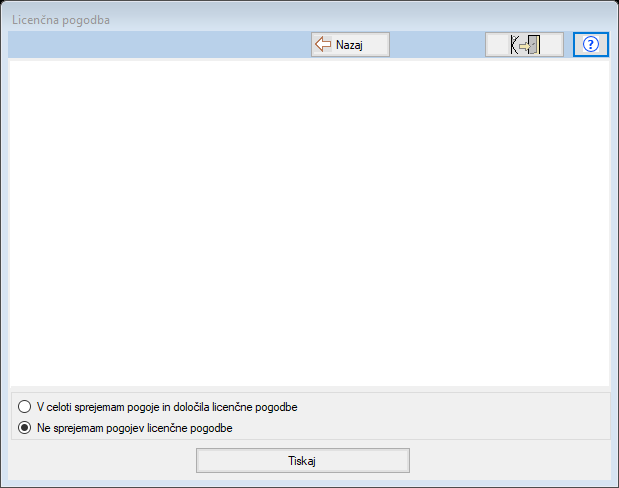
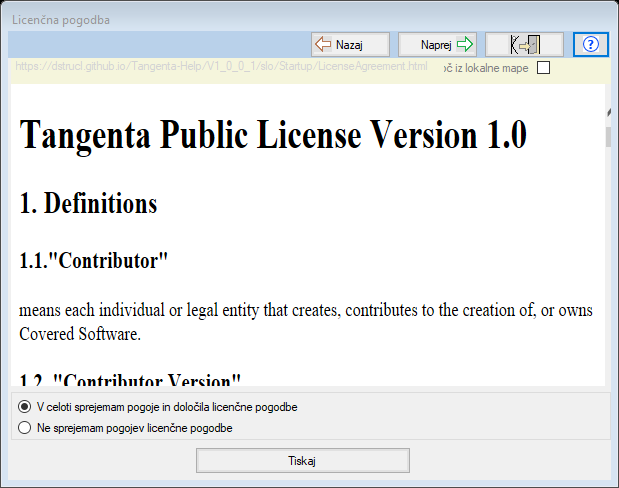
Add SQLiteConnectionDialog help

diff --git a/V1_0_0_1/slo/DBConnectionControl40/st_SQLiteConnectionDialog.html b/V1_0_0_1/slo/DBConnectionControl40/st_SQLiteConnectionDialog.html
@@ -1,0 +1,105 @@
+<?xml version="1.0" encoding="utf-8"?>
+<html>
+  <head>
+    <link rel="stylesheet" type="text/css" href="../style.css" />
+    <title>Izberite datoteko podatkovne baze</title>
+  </head>
+  <body>
+    <THeader>
+      <div class="header">
+        <canvas id="TangentaLogo" width="60" height="50"></canvas>
+        <script type="text/javascript">
+        var canvas, context, canvaso, contexto;
+        canvaso = document.getElementById('TangentaLogo');
+        context = canvaso.getContext('2d');
+        context.lineWidth = 1;
+
+        // Draw vertical line
+        context.strokeStyle ='#936b20';
+        context.beginPath();
+        context.moveTo(30, 0);
+        context.lineTo(30, 50);
+        context.stroke();
+
+        // Draw large arc
+        context.beginPath();
+        context.arc(54, 26, 24,0.6*Math.PI,1.5*Math.PI, false);
+        context.stroke();
+
+        // Draw head circle
+        context.beginPath();
+        context.fillStyle = "#E2FFB0"/*"#CEF988";*/
+        context.arc(34, 6, 4,0,2*Math.PI, false);
+        context.fill();
+        context.stroke();
+
+        context.closePath();
+        context.restore();
+
+        </script>
+        <div class="header_border_with_radius">
+          <div class="header_menu">
+            <span>
+              <a href="../Tangenta.html">TANGENTA</a>
+            </span>,
+             <span><a href="../Invoice.html">RAČUNI</a></span>,
+             <span><a href="../ProformaInvoice.html">PREDRAČUNI</a></span>,
+             <span><a href="../Stock.html">ZALOGE</a></span>,
+             <span><a href="../PriceList.html">CENIKI</a></span>,
+             <span><a href="../Printing.html">TISKANJE RAČUNOV</a></span>,
+             <span><a href="../InvoicingOverview.html">PREGLED FAKTUR</a></span>,
+             <span><a href="../Support.html">PODPORA</a></span></div>
+        </div>
+      </div>
+    </THeader>
+    <TControl name="st_SQLiteConnectionDialog" imageincluded="1" link="" margin="4" heading="h1">
+      <div class="Title">
+        <h1 class="Title" id="5eb810a8-af0d-46b7-94a6-a4b3444ca695">Izbira ali namestitev podatkovne baze tipa SQLite</h1>
+        <div class="About">Podatkovna baza tipa SQLite je samostajna datoteka.
+V kolikor v ne dodajate velikih slik bo ta datoteka zelo majhna
+Podatkovna baza podjetja Studio Marjetka d.o.o. ima preko 3000 izdanih faktur
+v obdobju treh let, njena velikost na disku pa je še vedno manjša od 3.5MB,
+kar je običajno manj kot je velikost ene same fotografije ki jo naredite z mobilnim telefonom.</div>
+        <img src="st_SQLiteConnectionDialog.png" width="590" height="230" />
+        <div class="Description">Prikazani dialog ima dva polja, ki sta razložena v nadaljevanju.</div>
+      </div>
+      <TControl name="st_SQLiteConnectionDialog.usrc_NavigationButtons1" imageincluded="1" link="" margin="4" heading="h2">
+        <TControl name="st_SQLiteConnectionDialog.usrc_NavigationButtons1.btn1" imageincluded="1" link="" margin="4" heading="h2" />
+        <TControl name="st_SQLiteConnectionDialog.usrc_NavigationButtons1.btn2" imageincluded="1" link="" margin="4" heading="h2" />
+        <TControl name="st_SQLiteConnectionDialog.usrc_NavigationButtons1.btn3" imageincluded="1" link="" margin="4" heading="h2" />
+        <TControl name="st_SQLiteConnectionDialog.usrc_NavigationButtons1.usrc_Help1" imageincluded="1" link="" margin="4" heading="h2">
+          <TControl name="st_SQLiteConnectionDialog.usrc_NavigationButtons1.usrc_Help1.btn_Help" imageincluded="1" link="" margin="4" heading="h2" />
+        </TControl>
+      </TControl>
+      <TControl name="st_SQLiteConnectionDialog.lbl_Folder" imageincluded="1" link="st_SQLiteConnectionDialog.btn_SelectFolder" margin="4" heading="h2">
+        <div class="Title">
+          <h2 class="Title" id="07671487-235d-4679-948a-9b58b2d6e922">Mapa kjer se nahaja podatkovna baza SQLite</h2>
+          <img src="st_SQLiteConnectionDialog_lbl_Folder.png" width="563" height="54" />
+          <div class="Description">S pritiskom na gumb ("Mapa (pot do datoteke) se bo prikazal standardni dialog operacisjkega sistema Windows za izbiro mape.
+Izbrana mapa se bo vpisala v tekstovno polje. Program na začetku privzeto nastavi mapo C:\TangentaDB\, kar seveda lahko spremenite.
+
+</div>
+        </div>
+      </TControl>
+      <TControl name="st_SQLiteConnectionDialog.cmbR_FilePath" imageincluded="1" link="" margin="4" heading="h2" />
+      <TControl name="st_SQLiteConnectionDialog.btn_SelectFolder" imageincluded="1" link="" margin="4" heading="h2" />
+      <TControl name="st_SQLiteConnectionDialog.lbl_FileName" imageincluded="1" link="st_SQLiteConnectionDialog.btn_SelectFile,st_SQLiteConnectionDialog.cmbR_FileName" margin="4" heading="h2">
+        <div class="Title">
+          <h2 class="Title" id="e5bcd4ae-b3cf-458a-9fea-f69e1ce21a2c">Ime datoteke</h2>
+          <img src="st_SQLiteConnectionDialog_lbl_FileName.png" width="560" height="53" />
+          <div class="Description">S pritiskom na gumb "Ime Datoteke" lahko izberemo neko že obstoječo podatkovno bazo tipa SQLite.
+Lahko pa tudi napišemo novo ime, program Tangenta, pa bo v nadaljevanju sutvaril novo prazno podatkovno bazo z novim imenom.</div>
+        </div>
+      </TControl>
+      <TControl name="st_SQLiteConnectionDialog.cmbR_FileName" imageincluded="1" link="" margin="4" heading="h2" />
+      <TControl name="st_SQLiteConnectionDialog.btn_SelectFile" imageincluded="1" link="" margin="4" heading="h2" />
+      <TControl name="st_SQLiteConnectionDialog.btn_SQLiteInfo" imageincluded="1" link="" margin="4" heading="h2">
+        <div class="Title">
+          <h2 class="Title" id="aae70c30-39b0-4c2d-a398-edd1fc19c8fe">Informacija o SQLite podatkovni bazi</h2>
+          <div class="About">S pritiskom na gum "SQLite Info" se prikaže dialog s potrebnimi informacijami verzije knjižnic in gonilnikov za SQLite</div>
+          <img src="st_SQLiteConnectionDialog_btn_SQLiteInfo.png" width="86" height="29" />
+        </div>
+      </TControl>
+    </TControl>
+  </body>
+</html>

diff --git a/V1_0_0_1/slo/DBSync/nav_Form_GetDBType.html b/V1_0_0_1/slo/DBSync/nav_Form_GetDBType.html
@@ -1,0 +1,88 @@
+<?xml version="1.0" encoding="utf-8"?>
+<html>
+  <head>
+    <link rel="stylesheet" type="text/css" href="../style.css" />
+    <title>DBSync.Form_GetDBType</title>
+  </head>
+  <body>
+    <THeader>
+      <div class="header">
+        <canvas id="TangentaLogo" width="60" height="50"></canvas>
+        <script type="text/javascript">
+        var canvas, context, canvaso, contexto;
+        canvaso = document.getElementById('TangentaLogo');
+        context = canvaso.getContext('2d');
+        context.lineWidth = 1;
+
+        // Draw vertical line
+        context.strokeStyle ='#936b20';
+        context.beginPath();
+        context.moveTo(30, 0);
+        context.lineTo(30, 50);
+        context.stroke();
+
+        // Draw large arc
+        context.beginPath();
+        context.arc(54, 26, 24,0.6*Math.PI,1.5*Math.PI, false);
+        context.stroke();
+
+        // Draw head circle
+        context.beginPath();
+        context.fillStyle = "#E2FFB0"/*"#CEF988";*/
+        context.arc(34, 6, 4,0,2*Math.PI, false);
+        context.fill();
+        context.stroke();
+
+        context.closePath();
+        context.restore();
+
+        </script>
+        <div class="header_border_with_radius">
+          <div class="header_menu">
+            <span>
+              <a href="../Tangenta.html">TANGENTA</a>
+            </span>,
+             <span><a href="../Invoice.html">RAČUNI</a></span>,
+             <span><a href="../ProformaInvoice.html">PREDRAČUNI</a></span>,
+             <span><a href="../Stock.html">ZALOGE</a></span>,
+             <span><a href="../PriceList.html">CENIKI</a></span>,
+             <span><a href="../Printing.html">TISKANJE RAČUNOV</a></span>,
+             <span><a href="../InvoicingOverview.html">PREGLED FAKTUR</a></span>,
+             <span><a href="../Support.html">PODPORA</a></span></div>
+        </div>
+      </div>
+    </THeader>
+    <TControl name="nav_Form_GetDBType" imageincluded="1" link="" margin="4" heading="h1">
+      <div class="Title">
+        <h1 class="Title" id="03989c5e-8bd3-4dc6-8c6c-cf433d663e38">Izbira strežnika in podatkovne baze</h1>
+        <div class="About">Na voljo sta dva tipa strežnikov: SQLite in MSSQL.
+SQLite je strežnik, ki je integriran v program Tangenta.
+
+MSSQL strežnik, je samostojen strežnik, ki ga namestite posebej.
+Namestitev MSSQL strežnika je zahteven process, ki ga lahko uspešno opravi samo
+dober sistemski administrator ali poznavalec
+
+
+
+</div>
+        <img src="nav_Form_GetDBType.png" width="342" height="139" />
+        <div class="Description">V kolikor bo program Tangenta tekel v enouporabniškem načinu samo na enem računalniku potem
+je smiselno izbrati SQLite.
+Za večuporabniško delovanje, je smiselna povezava na MSSQL strežnik.
+
+</div>
+      </div>
+      <TControl name="nav_Form_GetDBType.usrc_NavigationButtons1" imageincluded="1" link="" margin="4" heading="h2">
+        <TControl name="nav_Form_GetDBType.usrc_NavigationButtons1.btn1" imageincluded="1" link="" margin="4" heading="h2" />
+        <TControl name="nav_Form_GetDBType.usrc_NavigationButtons1.btn2" imageincluded="1" link="" margin="4" heading="h2" />
+        <TControl name="nav_Form_GetDBType.usrc_NavigationButtons1.btn3" imageincluded="1" link="" margin="4" heading="h2" />
+        <TControl name="nav_Form_GetDBType.usrc_NavigationButtons1.usrc_Help1" imageincluded="1" link="" margin="4" heading="h2">
+          <TControl name="nav_Form_GetDBType.usrc_NavigationButtons1.usrc_Help1.btn_Help" imageincluded="1" link="" margin="4" heading="h2" />
+        </TControl>
+      </TControl>
+      <TControl name="nav_Form_GetDBType.lbl_SelectDataBase" imageincluded="1" link="" margin="4" heading="h2" />
+      <TControl name="nav_Form_GetDBType.rdb_SQLite" imageincluded="1" link="" margin="4" heading="h2" />
+      <TControl name="nav_Form_GetDBType.rdb_MSSQL" imageincluded="1" link="" margin="4" heading="h2" />
+    </TControl>
+  </body>
+</html>

diff --git a/V1_0_0_1/slo/Startup/nav_Form_LicenseAgreement.html b/V1_0_0_1/slo/Startup/nav_Form_LicenseAgreement.html
@@ -55,18 +55,39 @@
     <TControl name="nav_Form_LicenseAgreement" imageincluded="1" link="" margin="4" heading="h1">
       <div class="Title">
         <h1 class="Title" id="c962a320-5b4f-4266-8917-2815e8d1040d">Licenčna pogodba</h1>
-        <div class="About">Napiši licenčno pogodbo</div>
+        <div class="About">Licenčna pogodba določa pogoje in pravice uporabe programa Tangenta.exe.</div>
         <img src="nav_Form_LicenseAgreement.png" width="619" height="488" />
+        <div class="Description">Kljub temu da je program odprtokoden in in samo po sebi brezplačen za uporabo, Licenčno pogodbo podrobno preberite, saj vas lahko kršitev licenčnih pogojev zelo drago stane v primeru
+tožbe avtorja.</div>
       </div>
       <TControl name="nav_Form_LicenseAgreement.usrc_NavigationButtons1" imageincluded="1" link="" margin="4" heading="h2">
         <TControl name="nav_Form_LicenseAgreement.usrc_NavigationButtons1.btn1" imageincluded="1" link="" margin="4" heading="h2" />
+        <TControl name="nav_Form_LicenseAgreement.usrc_NavigationButtons1.btn2" imageincluded="1" link="" margin="4" heading="h1">
+          <div class="Title">
+            <h1 class="Title" id="3f8f2841-d533-4ec9-8a0a-c30a0d0f9bbc">Gumb za "Naprej"</h1>
+            <img src="nav_Form_LicenseAgreement_usrc_NavigationButtons1_btn2.png" width="81" height="27" />
+          </div>
+        </TControl>
         <TControl name="nav_Form_LicenseAgreement.usrc_NavigationButtons1.btn3" imageincluded="1" link="" margin="4" heading="h2" />
         <TControl name="nav_Form_LicenseAgreement.usrc_NavigationButtons1.usrc_Help1" imageincluded="1" link="" margin="4" heading="h2">
           <TControl name="nav_Form_LicenseAgreement.usrc_NavigationButtons1.usrc_Help1.btn_Help" imageincluded="1" link="" margin="4" heading="h2" />
         </TControl>
       </TControl>
+      <TControl name="nav_Form_LicenseAgreement.usrc_web_Help1" imageincluded="1" link="" margin="4" heading="h1">
+        <TControl name="nav_Form_LicenseAgreement.usrc_web_Help1.txt_URL" imageincluded="1" link="" margin="4" heading="h1" />
+        <TControl name="nav_Form_LicenseAgreement.usrc_web_Help1.chk_local" imageincluded="1" link="" margin="4" heading="h1" />
+      </TControl>
       <TControl name="nav_Form_LicenseAgreement.groupBox1" imageincluded="1" link="" margin="4" heading="h2">
-        <TControl name="nav_Form_LicenseAgreement.groupBox1.rdb_AcceptLicenseAgreement" imageincluded="1" link="" margin="4" heading="h2" />
+        <TControl name="nav_Form_LicenseAgreement.groupBox1.rdb_AcceptLicenseAgreement" imageincluded="1" link="" margin="4" heading="h2">
+          <div class="Title">
+            <h2 class="Title" id="3267c1bc-b725-4af5-bbf0-015bcc8e1979">Sprejem pogojev in določil licenčne pogodbe</h2>
+            <div class="About">Za sprejem  pogojev in določil licenčne pogodbe kliknite na dialogu v krogec, ki ga prikazuje spodnja slika.</div>
+            <img src="nav_Form_LicenseAgreement_groupBox1_rdb_AcceptLicenseAgreement.png" width="286" height="17" />
+            <div class="Description">Samo s in izključno samo s sprejemom licenčnih pogojev se prikaže gumb za "Naprej".
+S klikom na gumb "Naprej" nadaljujemo z namestitvijo programa Tangenta.
+</div>
+          </div>
+        </TControl>
         <TControl name="nav_Form_LicenseAgreement.groupBox1.rdb_NotAcceptLicenseAgreement" imageincluded="1" link="" margin="4" heading="h2" />
       </TControl>
       <TControl name="nav_Form_LicenseAgreement.btn_Print" imageincluded="1" link="" margin="4" heading="h2" />
